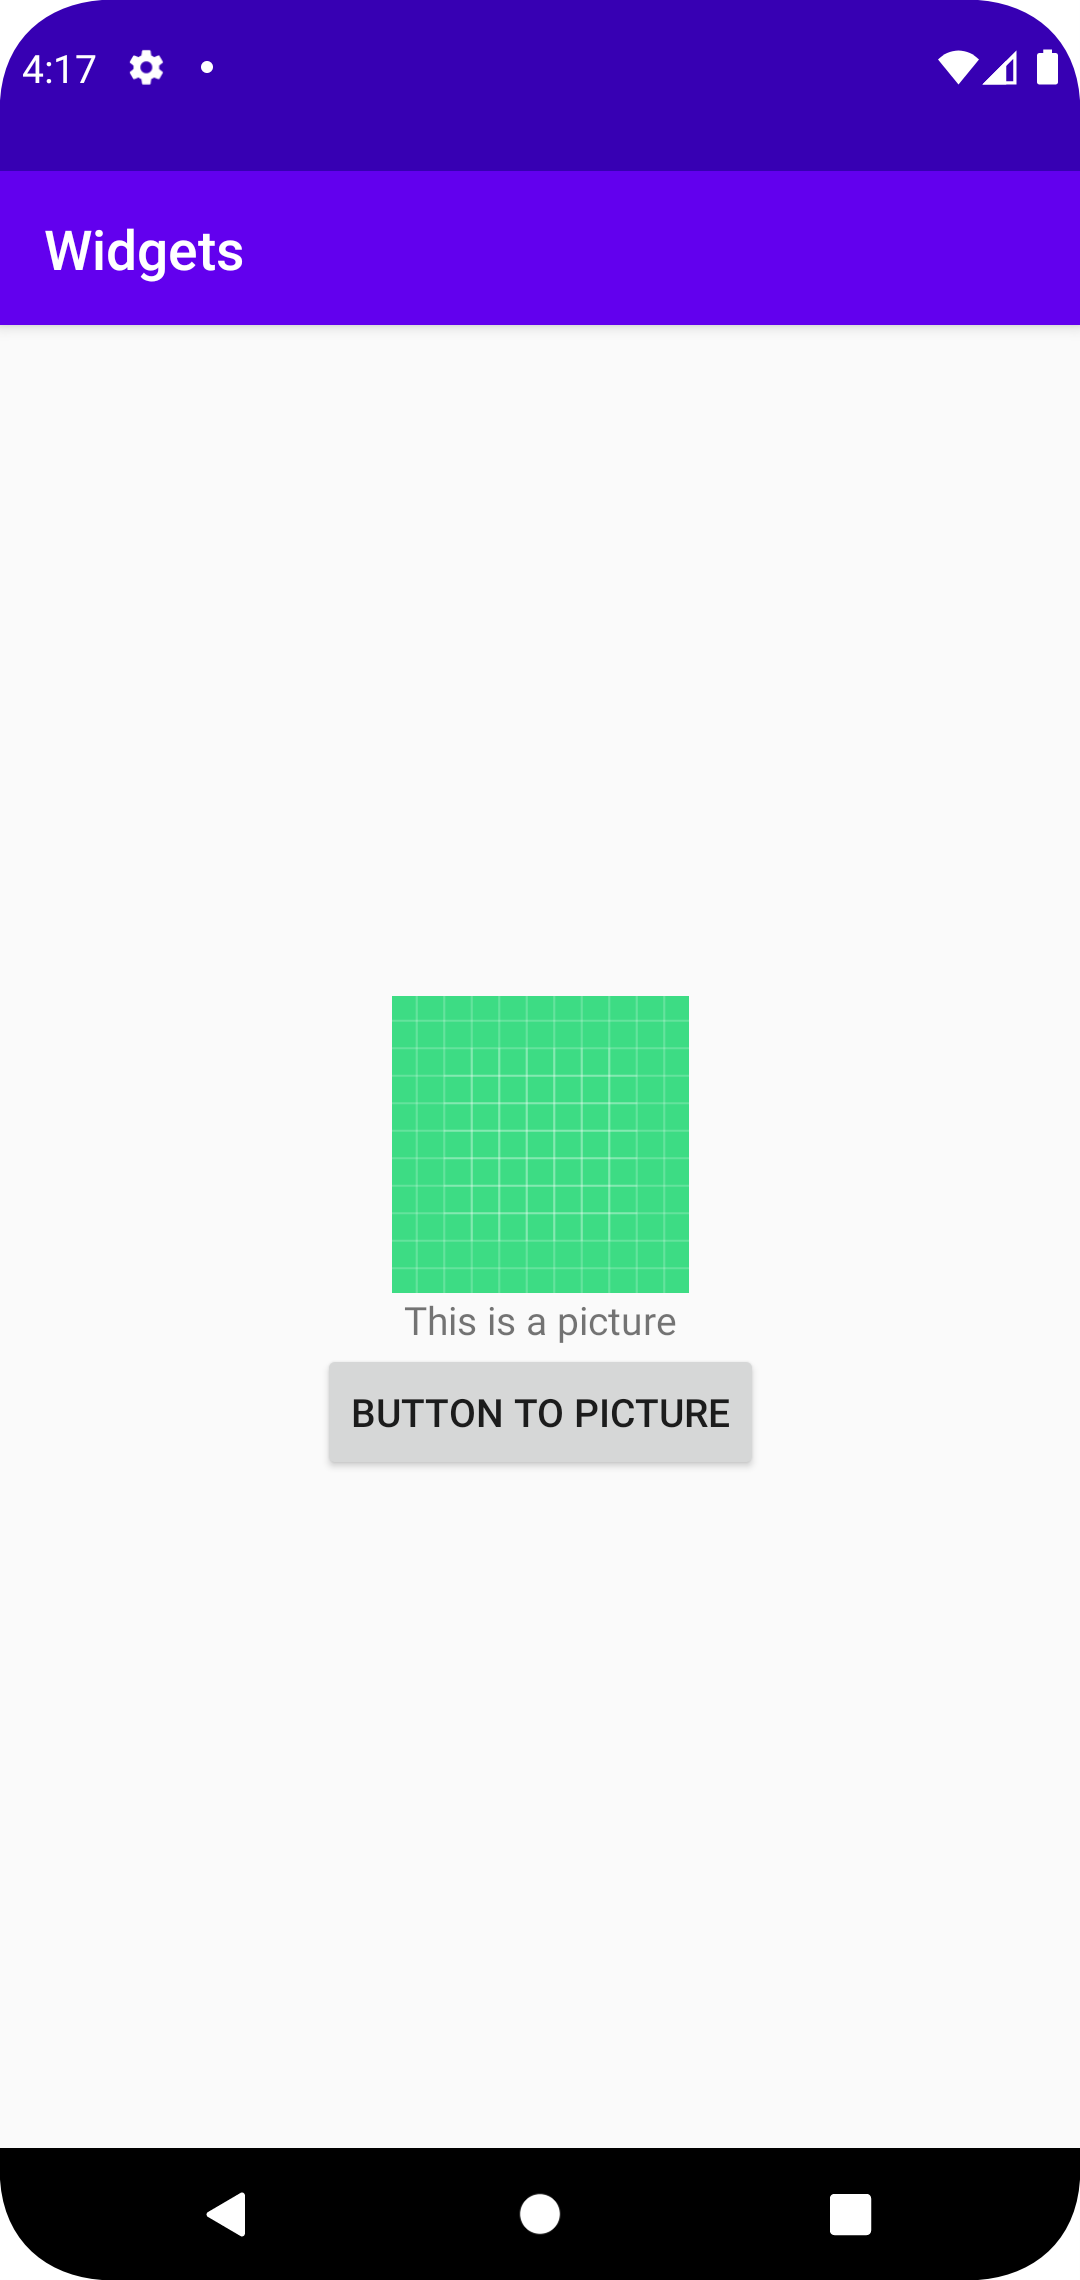
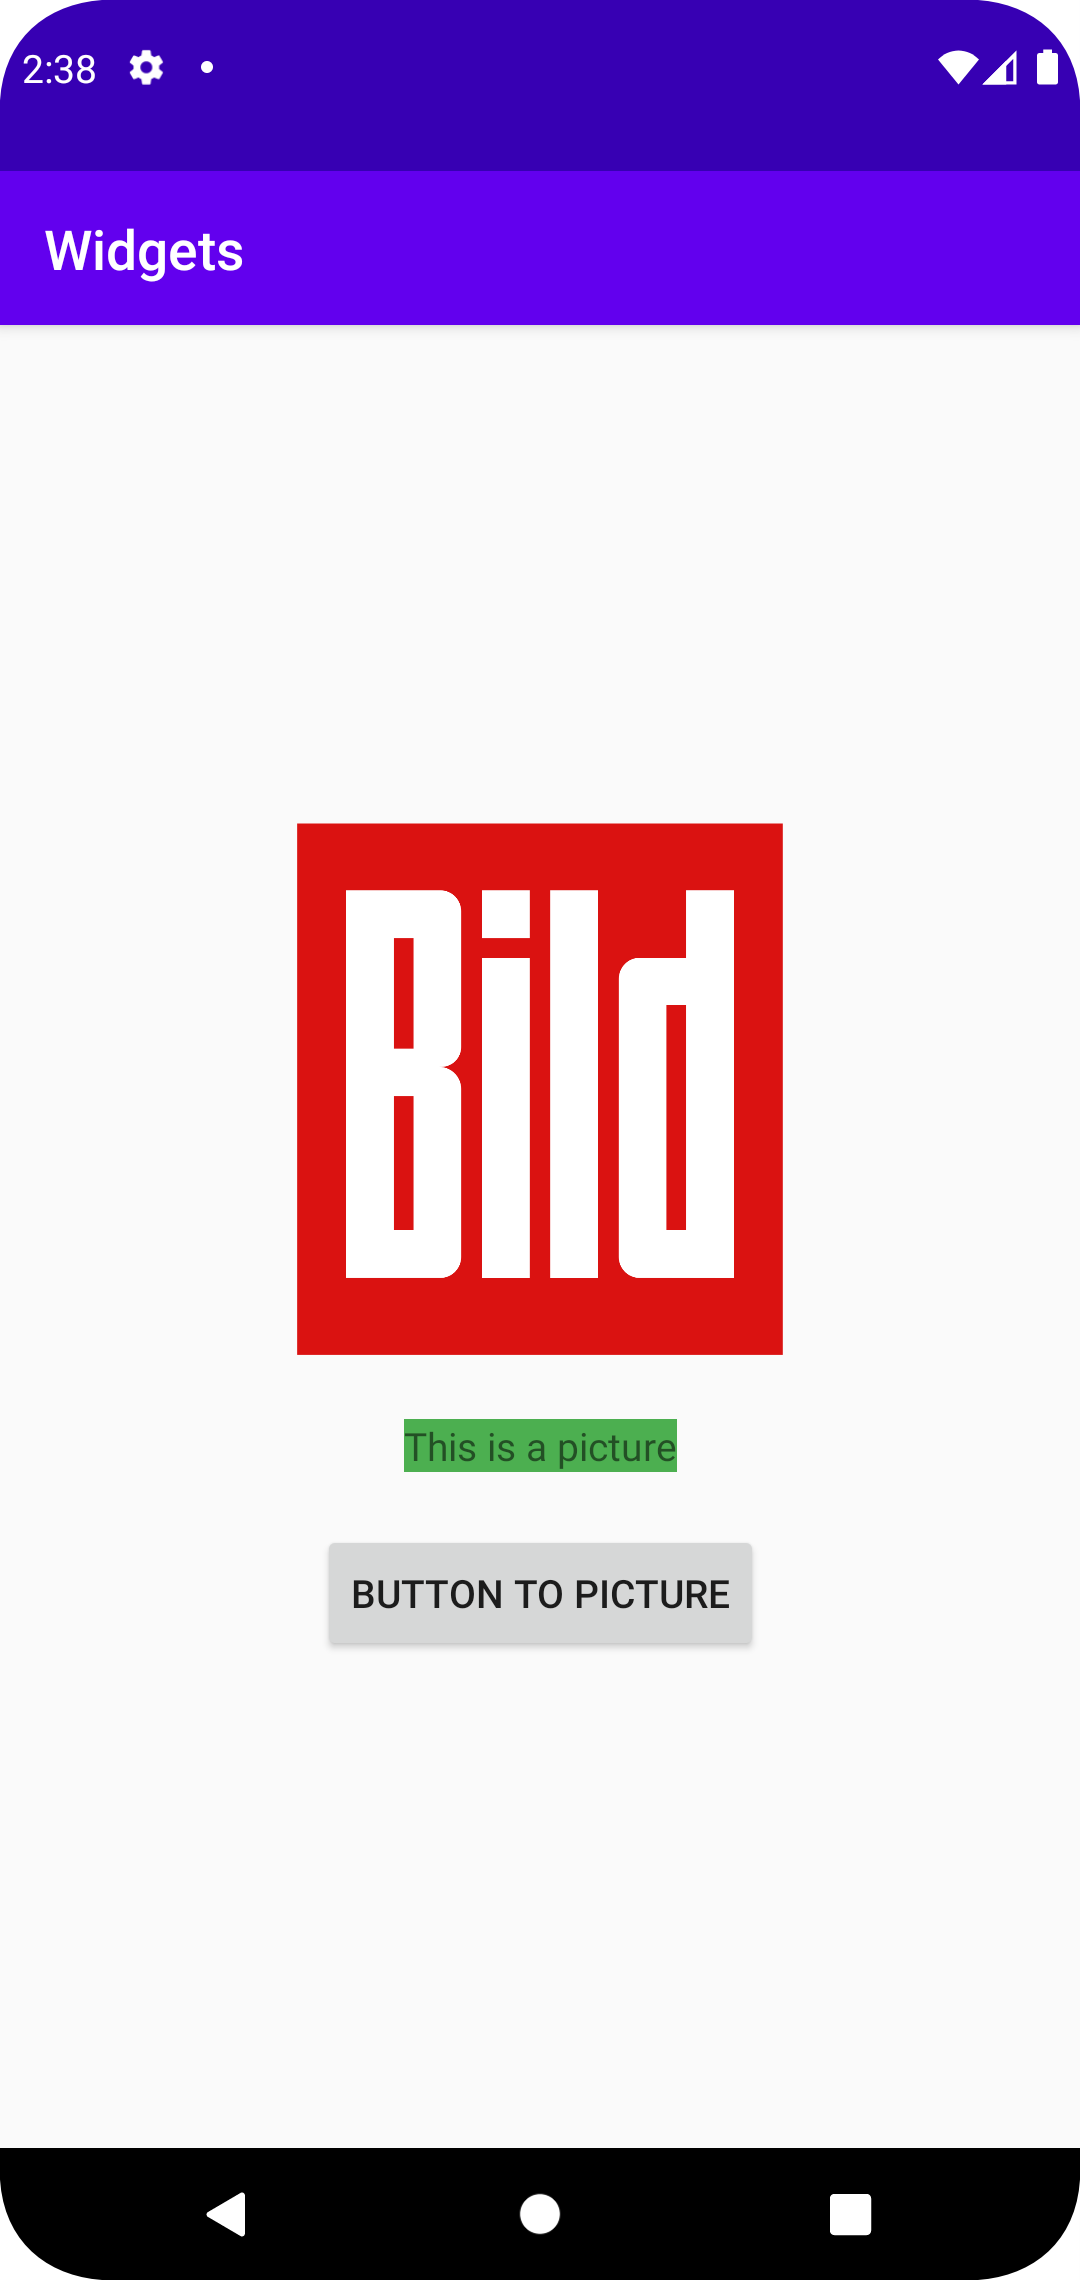
made the widgets unike

Changed region(s): [[0.275, 0.3425, 0.7333, 0.7474], [0.0611, 0.0, 0.0917, 0.0311]]

diff --git a/README.md b/README.md
@@ -23,16 +23,16 @@ MyImage är ImageViewen som är högs upp och har då PictureText som sin bottom
 ```
 <ImageView
     android:id="@+id/MyImage"
-    android:layout_width="wrap_content"
-    android:layout_height="wrap_content"
+    android:layout_width="200dp"
+    android:layout_height="200dp"
     android:contentDescription="@string/PictureDescription"
     android:visibility="visible"
     app:layout_constraintTop_toTopOf="parent"
     app:layout_constraintBottom_toTopOf="@+id/PictureText"
     app:layout_constraintEnd_toEndOf="parent"
     app:layout_constraintStart_toStartOf="parent"
-    app:srcCompat="@drawable/ic_launcher_background"
-    tools:srcCompat="@drawable/ic_launcher_background" />
+    app:srcCompat="@drawable/logo_bild_svg"
+    android:layout_marginBottom="20dp"/>
 ```
 
 PictureText är TextViewen som är i mitten så den får ha MyImage som sin top constraint 
@@ -42,12 +42,14 @@ och PictureButton som sin bottom constraint.
     android:id="@+id/PictureText"
     android:layout_width="wrap_content"
     android:layout_height="wrap_content"
+    android:layout_marginBottom="20dp"
+    android:background="#4CAF50"
     android:text="@string/PictureText"
     android:visibility="visible"
-    app:layout_constraintTop_toBottomOf="@+id/MyImage"
     app:layout_constraintBottom_toTopOf="@+id/PictureButton"
     app:layout_constraintEnd_toEndOf="parent"
-    app:layout_constraintStart_toStartOf="parent" />
+    app:layout_constraintStart_toStartOf="parent"
+    app:layout_constraintTop_toBottomOf="@+id/MyImage" />
 ```
 
 PictureButton är knappen som hamna längs ner och har då PictureText som sin top constraint.
